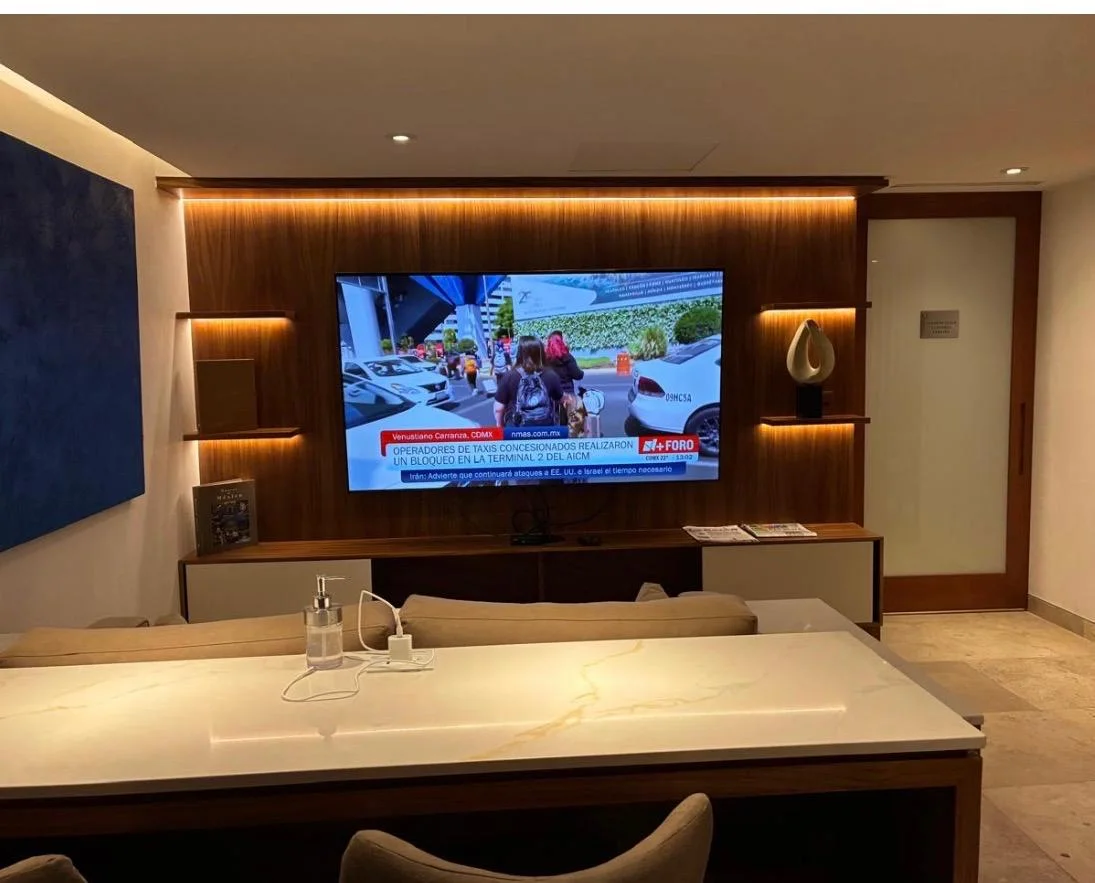
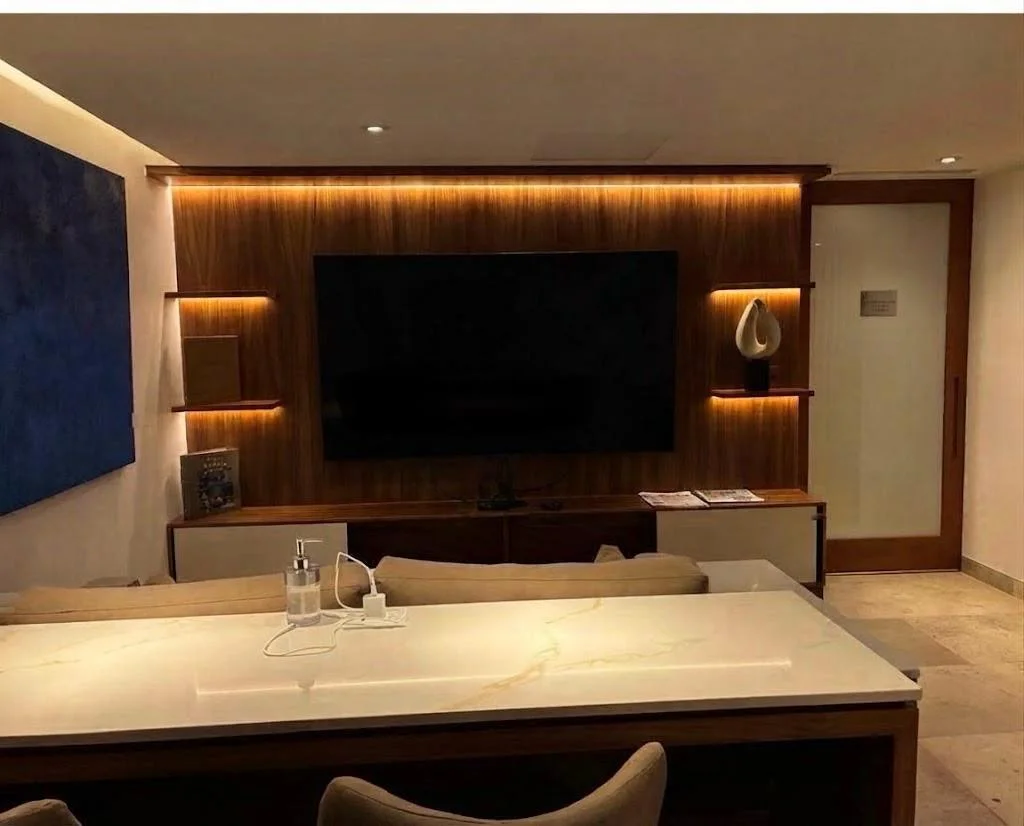
Replace recreational spaces TV photo

diff --git a/src/data/imageDimensions.ts b/src/data/imageDimensions.ts
@@ -8,7 +8,7 @@ const imageDimensions = {
   '/assets/raquel-projects/gallery/mobiliario2.webp': [1059, 870],
   '/assets/raquel-projects/gallery/nuestros-proyectos-exterior.webp': [960, 1280],
   '/assets/raquel-projects/gallery/mobiliario-club-spa.webp': [1132, 1280],
-  '/assets/raquel-projects/gallery/mobiliario-club-tv.webp': [1095, 883],
+  '/assets/raquel-projects/gallery/mobiliario-club-tv.webp': [1024, 826],
   '/assets/raquel-projects/gallery/mobiliario-club-spa-detail.webp': [987, 1280],
   '/assets/raquel-projects/gallery/mobiliario-club-lockers.webp': [991, 1280],
   '/assets/portrait/raquel-hedo.webp': [699, 1280],
